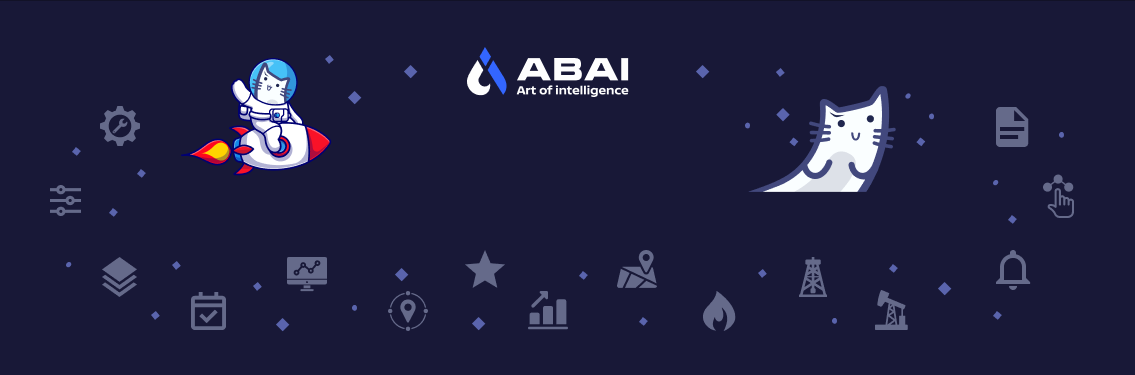
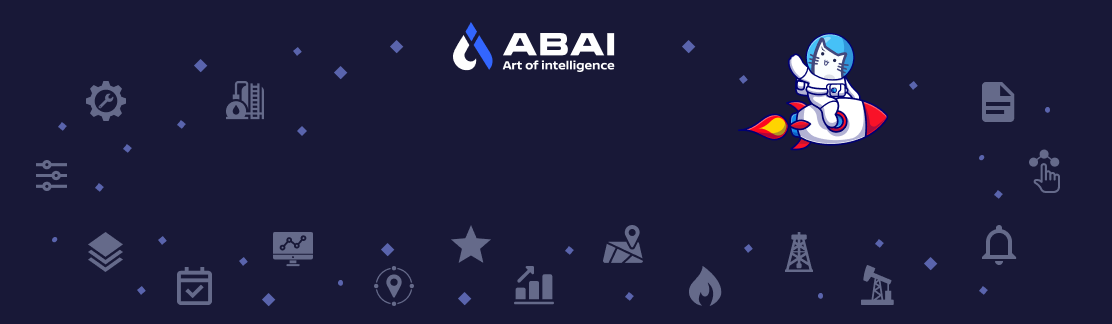
faq page changed header pictures

diff --git a/resources/js/components/faqPageModuleBlock.vue b/resources/js/components/faqPageModuleBlock.vue
@@ -8,7 +8,7 @@
           </div>
           <div class="col-1">
             <div
-              v-if="block.id == clickedId"
+              v-if="block.id != clickedId"
               class="faq-question_down mt-2"
             ></div>
             <div v-else class="faq-question_up mt-2"></div>

diff --git a/resources/views/faq.blade.php b/resources/views/faq.blade.php
@@ -57,7 +57,7 @@
     }
 
     .faq-header_img {
-        background: url(/img/faq/faq.png) no-repeat;
+        background: url(/img/faq/faq.png) 18px no-repeat;
         height: 324px;
     }
 
